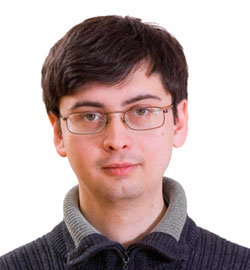
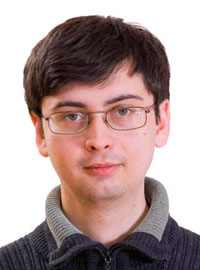
bug fix

diff --git a/protected/views/site/index.php b/protected/views/site/index.php
@@ -480,7 +480,7 @@
 </h1>
 
 <a href="/site/gilfanov" class="gilfanov classic">
-    <img class="gilfanov_foto" src="/i/gilfanov.png" width="350" height="304" title="Гильфанов К.Х."/>
+    <img class="gilfanov_foto" src="/i/gilfanov.jpg" width="200" height="252" title="Гильфанов К.Х."/>
     Гильфанов Камиль Хабибович
 </a>
 
@@ -631,9 +631,9 @@
     </li>
     <li>
             <span>
-                <img width="" src="/i/prepods/anvar.jpg"/>
+                <img width="" src="/i/prepods/ilnar.jpg"/>
             </span>
-        Мухаметзянов Анвар Сулейманович
+        Сибгатуллин Ильнар Файдрахманович
     </li>
     <li>
             <span>

diff --git a/protected/views/post/scrapbook.php b/protected/views/post/scrapbook.php
@@ -35,8 +35,3 @@ if ($more != $post_now) {
 
 
 <script type="text/javascript" src="<?php echo Yii::app()->request->baseUrl; ?>/js/jquery.lightbox-0.5.js"></script>
-<script>
-    
-  $('#gallery a').lightBox();
-    
-</script>
